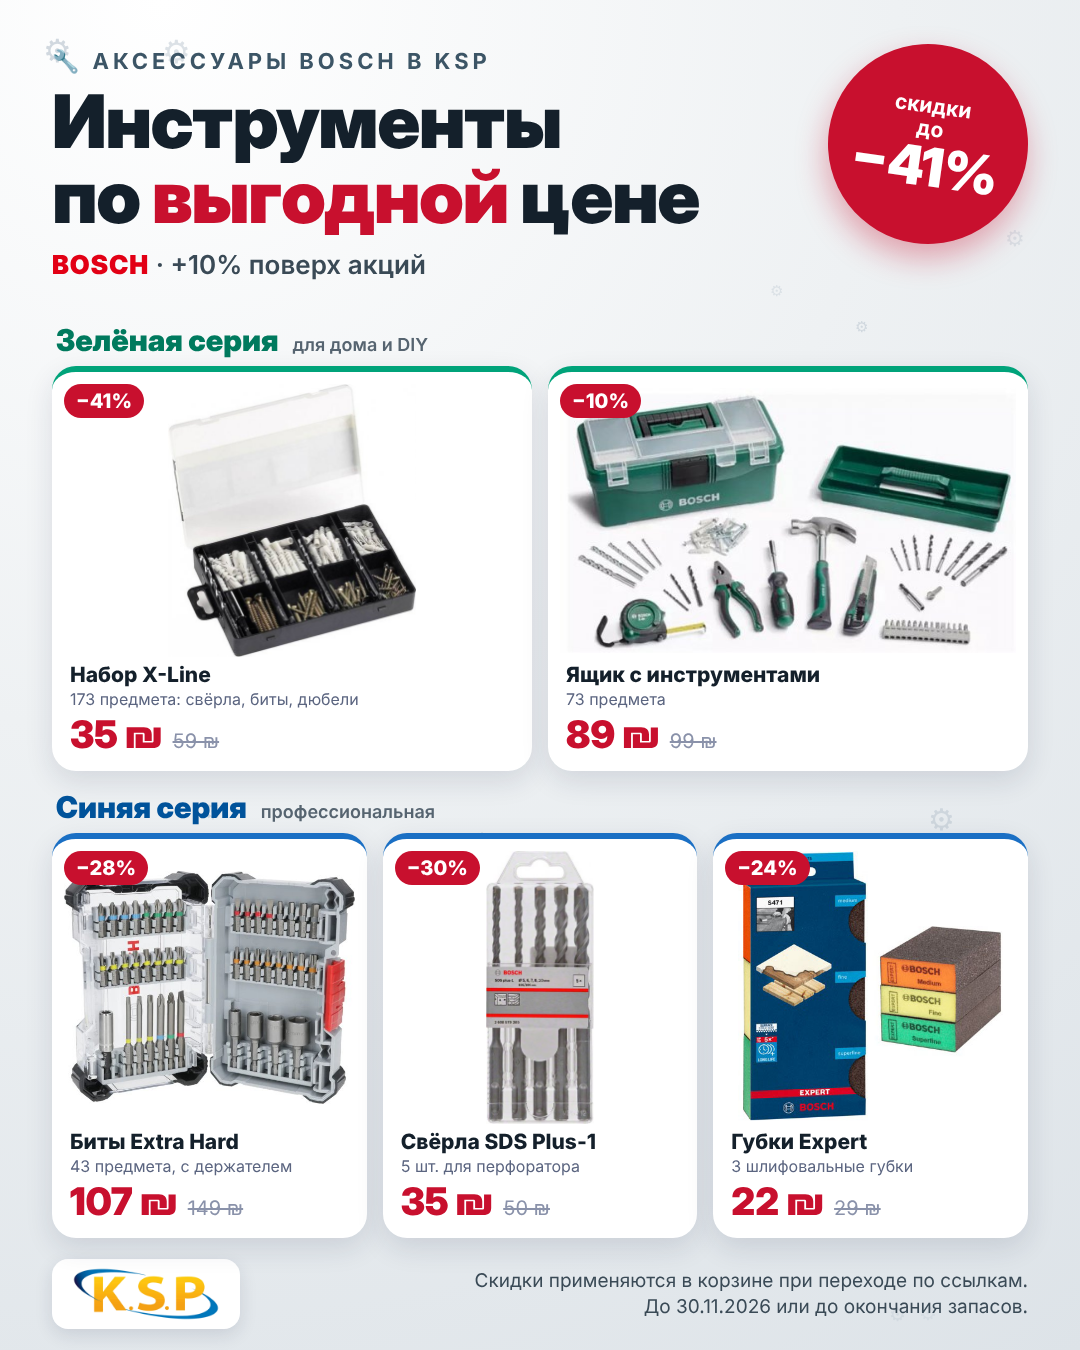
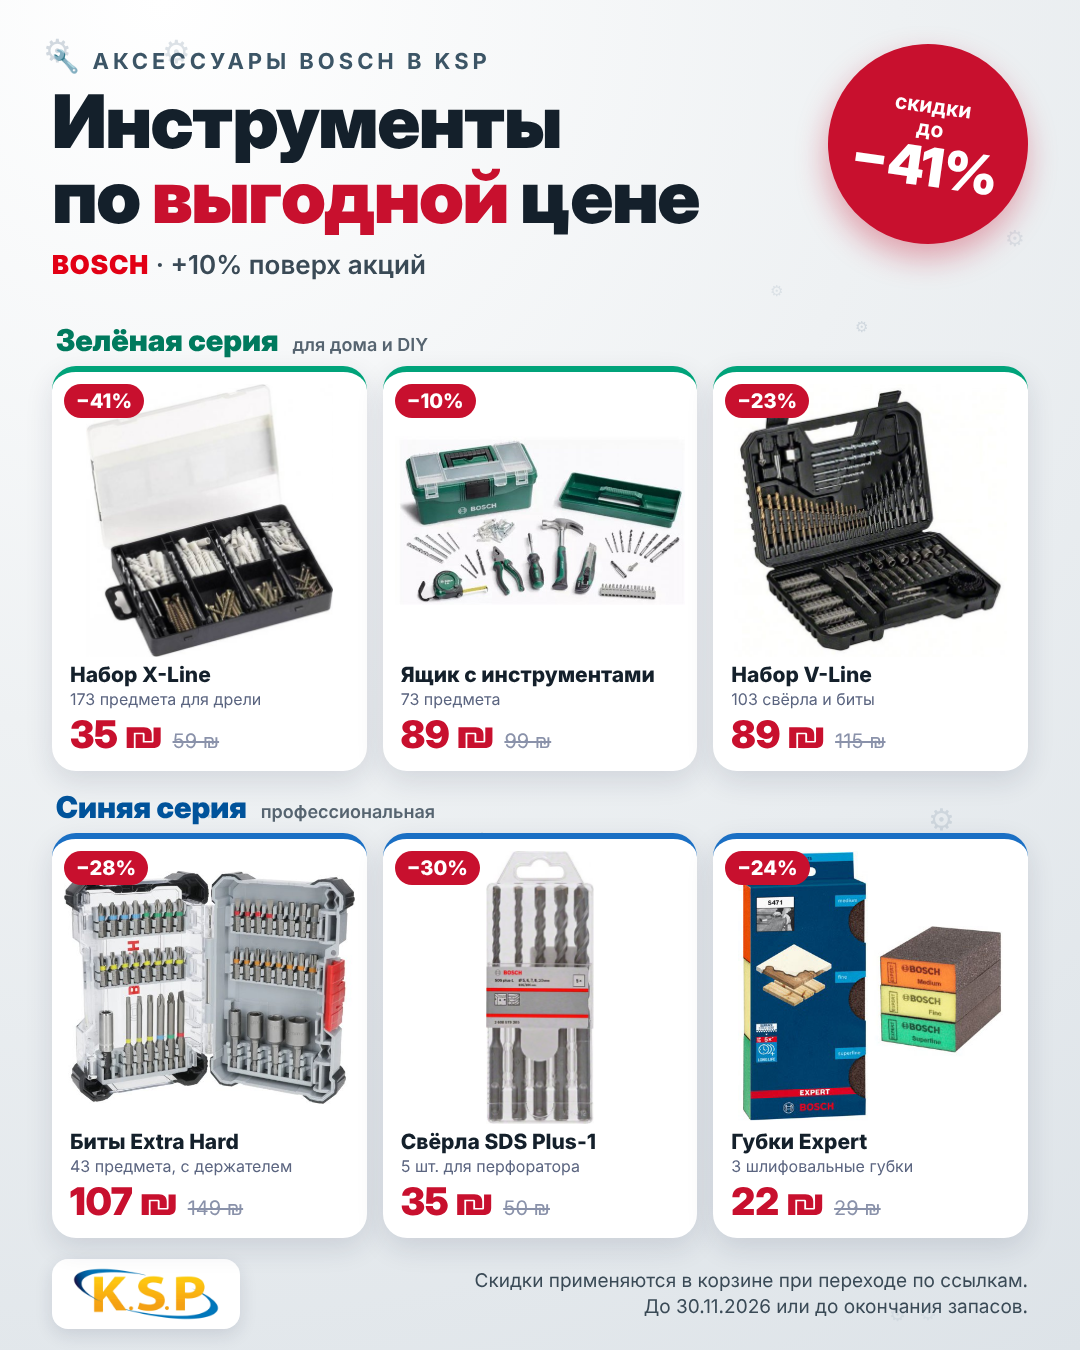
Add Bosch V-Line set to KSP Bosch promo image
Claude-Session: https://claude.ai/code/session_01G3xLikWFack3bze3pWJxPE

Changed region(s): [[0.0611, 0.2489, 0.9472, 0.5911]]

diff --git a/ksp-bosch-promo/render.js b/ksp-bosch-promo/render.js
@@ -12,7 +12,7 @@ const ROWS = [
   {
     brand: 'Зелёная серия', cls: 'green', note: 'для дома и DIY',
     items: [
-      { name: 'Набор X-Line', size: '173 предмета: свёрла, биты, дюбели', img: 'bosch-xline-173.jpg', now: '35', was: '59' },
+      { name: 'Набор X-Line', size: '173 предмета для дрели', img: 'bosch-xline-173.jpg', now: '35', was: '59' },
       { name: 'Ящик с инструментами', size: '73 предмета', img: 'bosch-toolbox-73.jpg', now: '89', was: '99' },
       { name: 'Набор V-Line', size: '103 свёрла и биты', img: 'bosch-vline-103.jpg', now: '89', was: '115' },
     ],
